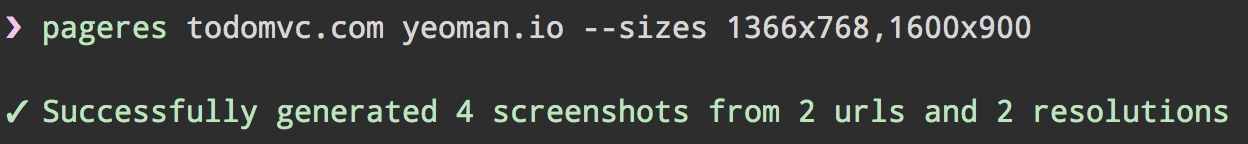
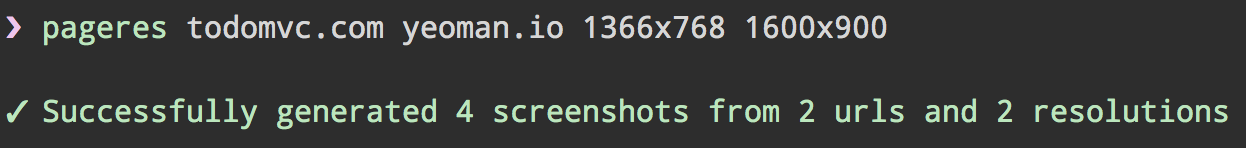
Remove `--sizes` flag
Just supply urls and sizes as arguments in whatever order :D

Changed region(s): [[0.0, 0.6667, 1.0, 0.9167], [0.0, 0.0833, 0.8539, 0.3333], [0.0, 0.1111, 0.0305, 0.1389]]

diff --git a/cli.js b/cli.js
@@ -9,14 +9,16 @@ function showHelp() {
 	console.log('');
 	console.log('Get screenshots of websites in different resolutions.');
 	console.log('');
+	console.log('Specify urls and screen resolutions you want as arguments. Order doesn\'t matter.');
+	console.log('');
 	console.log(chalk.underline('Usage'));
-	console.log('  pageres <url> [<url> ...] --sizes <resolution>,[<resolution>,...]');
+	console.log('  pageres <url> <resolution> [<resolution> <url> ...]');
 	console.log('  pageres <url> [<url> ...] --file <filepath>');
 	console.log('');
 	console.log(chalk.underline('Example'));
-	console.log('  pageres todomvc.com yeoman.io --sizes 1366x768,1600x900');
+	console.log('  pageres todomvc.com yeoman.io 1366x768 1600x900');
 	console.log('');
-	console.log('If --sizes is not specified it will fall back to the ten most popular screen resolutions according to w3counter.');
+	console.log('If no sizes are specified it will fall back to the ten most popular screen resolutions according to w3counter.');
 	console.log('');
 	console.log('The <filepath> file should be formatted to have one <resolution> on each line.');
 }
@@ -24,20 +26,20 @@ function showHelp() {
 var opts = nopt({
 	help: Boolean,
 	version: Boolean,
-	sizes: String,
 	file: String
 }, {
 	h: '--help',
 	v: '--version',
-	s: '--sizes',
 	f: '--file'
 });
 
-var urls = opts.argv.remain;
-var sizes = opts.sizes && opts.sizes.split(',');
+
+var args = opts.argv.remain;
+var urls = args.filter(/./.test.bind(/\./));
+var sizes = args.filter(/./.test.bind(/^\d{3,4}x\d{3,4}$/i));
 
 //TODO: keep me up to date: http://www.w3counter.com/globalstats.php
-var defRes = '1366x768,1024x768,1280x800,1920x1080,1440x900,768x1024,1280x1024,1600x900,320x480,320x568';
+var defRes = '1366x768 1024x768 1280x800 1920x1080 1440x900 768x1024 1280x1024 1600x900 320x480 320x568';
 
 if (opts.help || urls.length === 0) {
 	return showHelp();
@@ -56,15 +58,9 @@ if (!sizes) {
 	if (opts.file) {
 		sizes = fs.readFileSync(opts.file, 'utf8').trim().split('\n');
 	} else {
-		console.log('Neither ' + chalk.underline('--sizes') + ' nor ' + chalk.underline('--file') + ' specified. Falling back to the ten most popular screen resolutions according to w3counter as of January 2014:\n' + defRes);
+		console.log('No sizes or ' + chalk.underline('--file') + ' specified. Falling back to the ten most popular screen resolutions according to w3counter as of January 2014:\n' + defRes);
 		sizes = defRes.split(',');
 	}
-}
-
-// detect if the user inputed the sizes wrong. good UX ftw.
-if (urls.some(function (el) { return /^\d{3,4}x\d{3,4}$/.test(el) })) {
-	console.log(chalk.yellow('The --sizes needs to be comma separated, not space ;)'));
-	return showHelp();
 }
 
 pageres(urls, sizes, function (err) {

diff --git a/readme.md b/readme.md
@@ -26,14 +26,16 @@ $ pageres --help
 
 Get screenshots of websites in different resolutions.
 
+Specify urls and screen resolutions you want as arguments. Order doesn't matter.
+
 Usage
-  pageres <url> [<url> ...] --sizes <resolution>,[<resolution>,...]
+  pageres <url> <resolution> [<resolution> <url> ...]
   pageres <url> [<url> ...] --file <filepath>
 
 Example
-  pageres todomvc.com yeoman.io --sizes 1366x768,1600x900
+  pageres todomvc.com yeoman.io 1366x768 1600x900
 
-If --sizes is not specified it will fall back to the ten most popular screen resolutions according to w3counter.
+If no sizes are specified it will fall back to the ten most popular screen resolutions according to w3counter.
 
 The <filepath> file should be formatted to have one <resolution> on each line.
 ```
